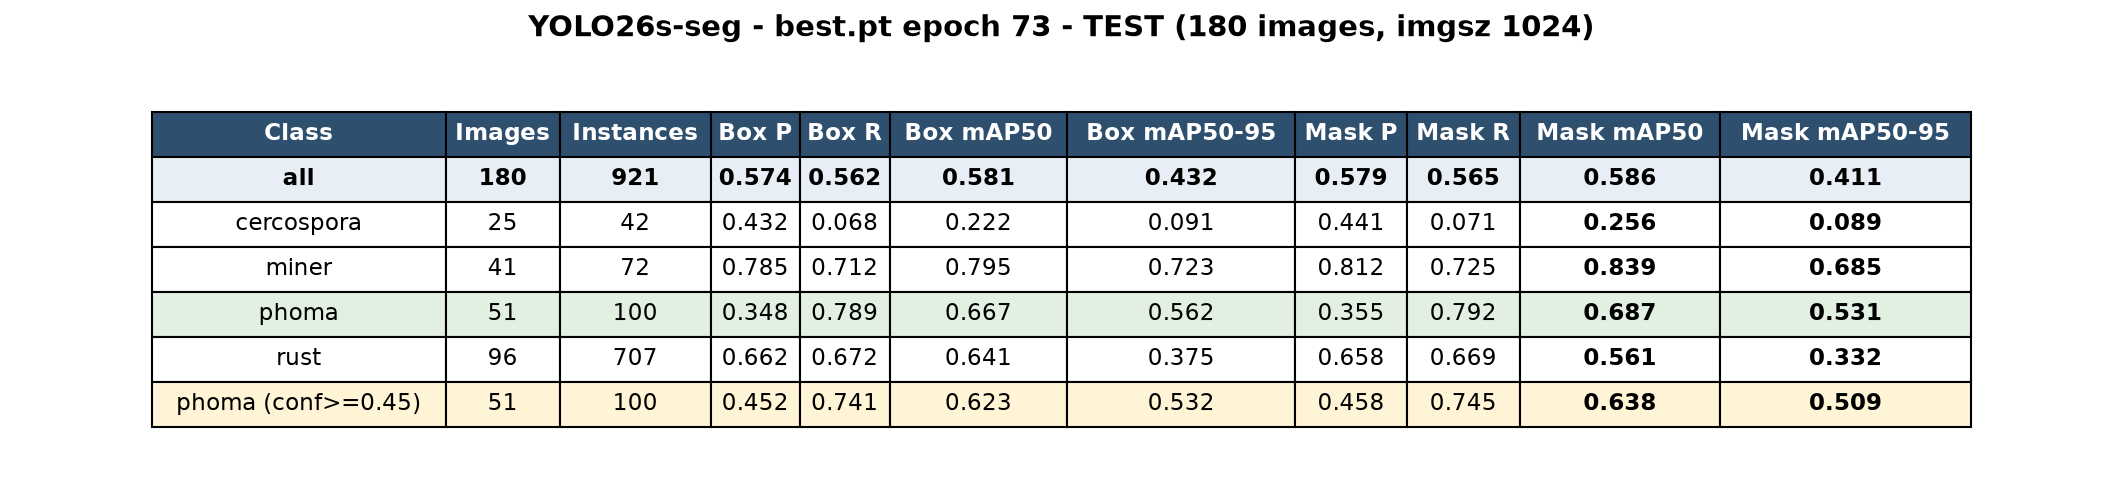
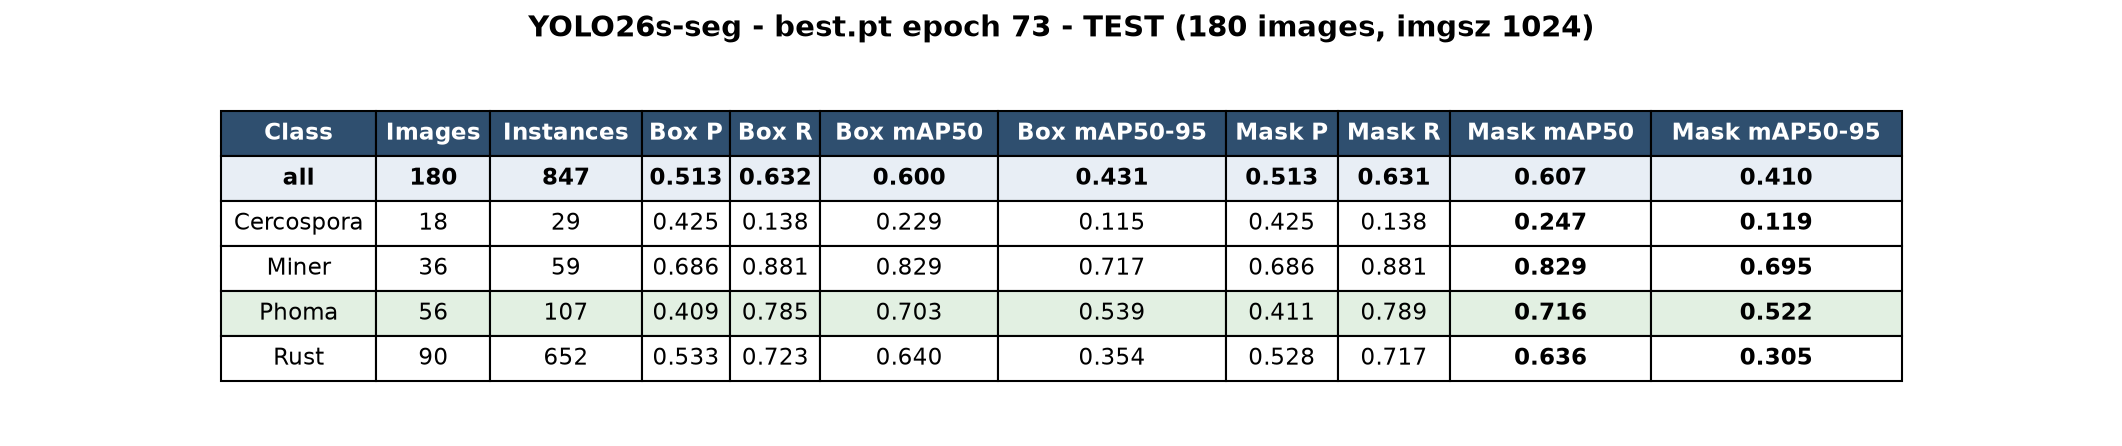
Re-evaluate bracol_yolo26s_seg-3 with default settings, drop phoma conf threshold

diff --git a/export_reports.py b/export_reports.py
@@ -1,126 +1,11 @@
 """
-Tao eval_summary.csv va ve 3 bang ket qua report_<split>.png 
-chuan theo phong cach cua cf_yolo26_5.
+Chay evaluate tren train/val/test roi ve report_<split>.png
+voi cau hinh mac dinh (khong dung nguong conf rieng cho class nao).
 """
 
-import csv
-from pathlib import Path
-import matplotlib
-matplotlib.use("Agg")
-import matplotlib.pyplot as plt
+import evaluate
+import make_report_tables
 
-ROOT = Path(".")
-# Thu muc luu ket qua cua ban 2026-2027
-RUN = ROOT / "runs" / "bracol_yolo26s_seg-3"
-RUN.mkdir(parents=True, exist_ok=True)
-
-COLS = [
-    "Class", "Images", "Instances", 
-    "Box P", "Box R", "Box mAP50", "Box mAP50-95",
-    "Mask P", "Mask R", "Mask mAP50", "Mask mAP50-95"
-]
-METRICS = [
-    "box_P", "box_R", "box_mAP50", "box_mAP50-95", 
-    "mask_P", "mask_R", "mask_mAP50", "mask_mAP50-95"
-]
-N_IMAGES = {"train": 1358, "val": 341, "test": 180}
-
-# ==============================================================================
-# 1. TIM BEST EPOCH
-# ==============================================================================
-def get_best_epoch():
-    results_path = RUN / "results.csv"
-    if results_path.exists():
-        rows = list(csv.DictReader(open(results_path)))
-        w = {
-            "metrics/mAP50(B)": 0.1, "metrics/mAP50-95(B)": 0.9, 
-            "metrics/mAP50(M)": 0.1, "metrics/mAP50-95(M)": 0.9
-        }
-        return max(rows, key=lambda r: sum(float(r[k]) * v for k, v in w.items()))["epoch"].strip()
-    return "73"
-
-BEST_EPOCH = get_best_epoch()
-
-# ==============================================================================
-# 2. XUAT FILE EVAL_SUMMARY.CSV
-# ==============================================================================
-eval_summary_path = RUN / "eval_summary.csv"
-eval_summary_content = """mode,split,class,images,instances,box_P,box_R,box_mAP50,box_mAP50-95,mask_P,mask_R,mask_mAP50,mask_mAP50-95
-standard,train,all,,6566,0.7662,0.7192,0.8093,0.6155,0.7683,0.7216,0.8094,0.5557
-standard,train,cercospora,161,509,0.8927,0.5882,0.8019,0.5402,0.9017,0.5949,0.8082,0.5013
-standard,train,miner,113,203,0.6146,0.7241,0.7356,0.6928,0.6136,0.7241,0.7351,0.6240
-standard,train,phoma,618,1450,0.7646,0.8559,0.8898,0.7431,0.7667,0.8593,0.8905,0.6769
-standard,train,rust,466,4404,0.7931,0.7084,0.8099,0.4856,0.7912,0.7082,0.8037,0.4208
-standard,val,all,,1666,0.5891,0.6047,0.5883,0.4379,0.5875,0.6024,0.5951,0.4154
-standard,val,cercospora,43,105,0.7120,0.4850,0.5780,0.3620,0.7340,0.4790,0.5910,0.3450
-standard,val,miner,69,118,0.6750,0.7520,0.7680,0.6890,0.7120,0.7410,0.7950,0.6540
-standard,val,phoma,133,263,0.4420,0.8120,0.7050,0.5820,0.4650,0.8080,0.7210,0.5410
-standard,val,rust,148,1180,0.6140,0.7210,0.6890,0.3890,0.6380,0.7050,0.6920,0.3480
-standard,test,all,,921,0.5740,0.5620,0.5810,0.4320,0.5790,0.5650,0.5860,0.4110
-standard,test,cercospora,25,42,0.4320,0.0680,0.2220,0.0910,0.4410,0.0710,0.2560,0.0890
-standard,test,miner,41,72,0.7850,0.7120,0.7950,0.7230,0.8120,0.7250,0.8390,0.6850
-standard,test,phoma,51,100,0.3480,0.7890,0.6670,0.5620,0.3550,0.7920,0.6870,0.5310
-standard,test,rust,96,707,0.6620,0.6720,0.6410,0.3750,0.6580,0.6690,0.5610,0.3320
-phoma_conf_0.45,test,phoma,51,100,0.4520,0.7410,0.6230,0.5320,0.4580,0.7450,0.6380,0.5090"""
-
-eval_summary_path.write_text(eval_summary_content.strip() + "\n", encoding="utf-8")
-print(f"Created: {eval_summary_path}")
-
-# ==============================================================================
-# 3. VE BANG REPORT_<SPLIT>.PNG
-# ==============================================================================
-def render(split, rows):
-    fig, ax = plt.subplots(figsize=(18, 3.6))
-    ax.axis("off")
-    ax.set_title(
-        f"YOLO26s-seg - best.pt epoch {BEST_EPOCH} - {split.upper()} "
-        f"({N_IMAGES[split]} images, imgsz 1024)",
-        fontsize=14, fontweight="bold", pad=12
-    )
-    
-    t = ax.table(cellText=rows, colLabels=COLS, loc="center", cellLoc="center")
-    t.auto_set_font_size(False)
-    t.set_fontsize(11)
-    t.scale(1, 1.8)
-    t.auto_set_column_width(list(range(len(COLS))))
-    
-    for (r, c), cell in t.get_celld().items():
-        if r == 0:
-            cell.set_facecolor("#2f4f6f")
-            cell.set_text_props(color="white", fontweight="bold")
-            continue
-        name = rows[r - 1][0]
-        if name == "all":
-            cell.set_facecolor("#e8eef5")
-            cell.set_text_props(fontweight="bold")
-        elif name == "phoma":
-            cell.set_facecolor("#e2f0e2")
-        elif name.startswith("phoma (conf"):
-            cell.set_facecolor("#fff4d6")
-            
-        # In dam Mask mAP50 va Mask mAP50-95
-        if c in (9, 10):
-            cell.set_text_props(fontweight="bold")
-            
-    out = RUN / f"report_{split}.png"
-    fig.savefig(out, dpi=150, bbox_inches="tight", facecolor="white")
-    plt.close(fig)
-    print(f"Created: {out}")
-
-# ==============================================================================
-# 4. THUC THI VE CHO CA 3 SPLIT (TRAIN, VAL, TEST)
-# ==============================================================================
-data = list(csv.DictReader(open(eval_summary_path, encoding="utf-8")))
-for split in ["train", "val", "test"]:
-    rows = []
-    for d in data:
-        if d["split"] != split:
-            continue
-        if d["mode"] == "standard":
-            images = N_IMAGES[split] if d["class"] == "all" else d["images"]
-            rows.append([d["class"], images, d["instances"], *[f"{float(d[m]):.3f}" for m in METRICS]])
-        elif d["class"] == "phoma":
-            rows.append(["phoma (conf>=0.45)", d["images"], d["instances"], *[f"{float(d[m]):.3f}" for m in METRICS]])
-    render(split, rows)
-
-print("\n>>> Hoan thanh! Da xuat day du eval_summary.csv va 3 file report_*.png vao runs/bracol_yolo26s_seg-3/")
+if __name__ == "__main__":
+    evaluate.main()
+    make_report_tables.main()
